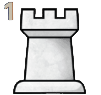
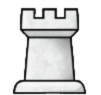
Starting the portfolio revamp

diff --git a/public/brianH/brianH.html b/public/brianH/brianH.html
@@ -20,7 +20,7 @@
                    <a href="../brianH/pages/projects/bh-project.html">
                     <img
                         class="Chess-piece"
-                        src="assets/Half and half Queen.png"
+                        src="assets/White Rook.png"
                         alt="White chess piece nav button that leads to resume page" />
                    </a> 
                     <a href="assets/Resume.pdf">
@@ -32,8 +32,8 @@
                 </div> 
             </nav>
         </header>
-        <div class="name">Brian Hodge's </div>       
-        <div class="intro">porfolio </div>        
+        <div class="name">Brian Hodge's</div>       
+        <div class="intro">Porfolio</div>        
         <footer style="top: 250px;">
             <div class="footer-info">
                 <!-- <div class="socials"> -->
@@ -50,11 +50,10 @@
                     src="assets/Youtube.png" 
                     alt="">
                 <!-- </div> -->
-                
-            <div class="num-email">Email: Brianhodg002@gmail.com<br>
-                Phone number:857-693-9362              
-            </div>
-            <!-- <div class="box"></div> -->
+                <div class="num-email">Email: Brianhodg002@gmail.com<br>
+                    Phone number:857-693-9362              
+                </div>
+                <!-- <div class="box"></div> -->
             </div>
         </footer>
     </div>

diff --git a/public/brianH/pages/about-me/bh-about.html b/public/brianH/pages/about-me/bh-about.html
@@ -11,7 +11,8 @@
         <a href="../../brianH.html">
            <img 
                src="../../assets/Back-button.png" 
-               alt=" this button leads to the home page" />
+               alt=" this button leads to the home page" 
+            />
         </a>  
        </div>
     <div class="About-title">About me</div>
@@ -21,9 +22,12 @@
         src="../../assets/About Me Box.png" 
         alt="The box that contiens text">
     </div>
-    <footer>
-        <div class="footer-info">
-            <img class="socials"
+    
+
+</body>
+<footer>
+     <div class="footer-info">
+        <img class="socials"
             src="../../assets/Spotify.png"
             alt="My Spotfiy acc">
             <img class="socials"
@@ -34,12 +38,9 @@
             alt="">
             <img class="socials"
             src="../../assets/Youtube.png" 
-            alt="">
+        alt="">
         <div class="num-email">Email: Brianhodg002@gmail.com<br>
             Phone number:857-693-9362              
         </div>
         
-    </footer>
-
-</body>
- 
+</footer>

diff --git a/public/brianH/brianH.css b/public/brianH/brianH.css
@@ -182,8 +182,8 @@ footer {
     padding: 5px;
     background-color: #000000;
     color: #000000;
-    position: relative;
-    height: 200px;
+    height: 150px;
+    margin-top: 450px;
 }
 
 .footer-info{
